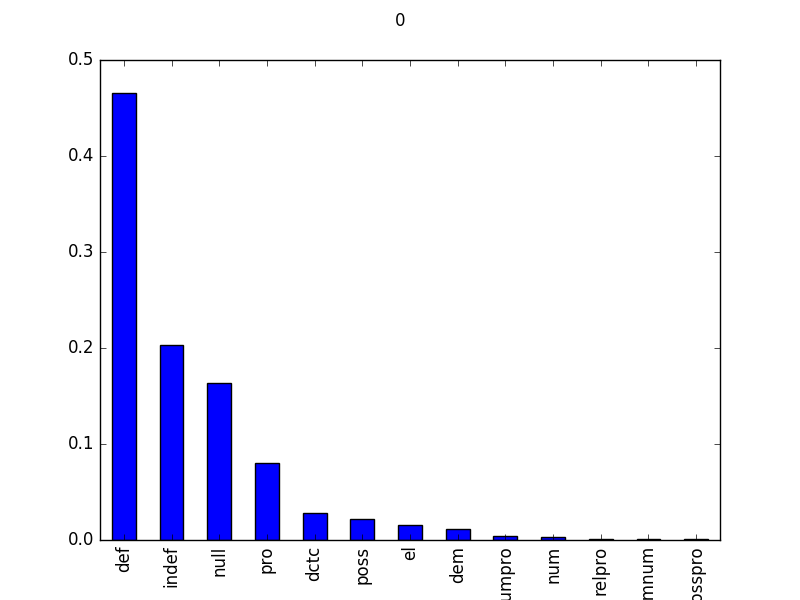
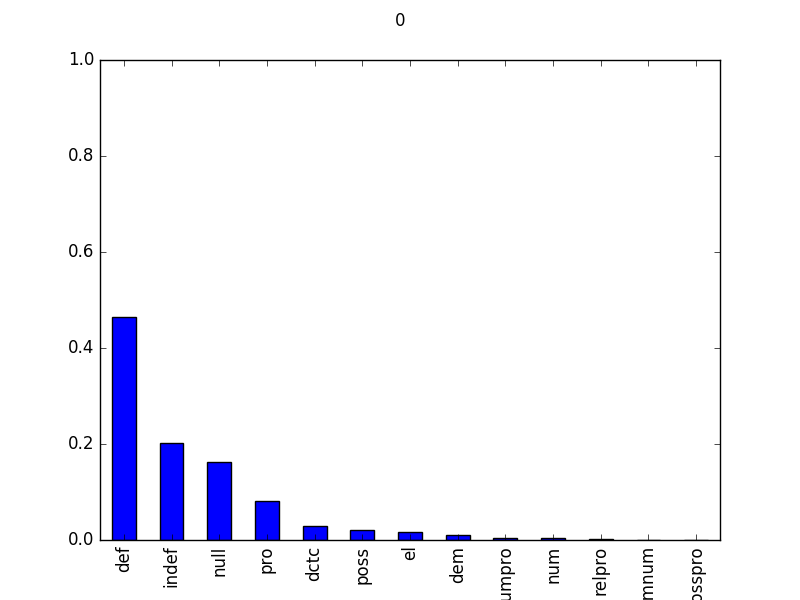
add eda/posteriors.py; add posterior_plots

diff --git a/eda/posteriors.py b/eda/posteriors.py
@@ -4,14 +4,24 @@ import pandas as pd
 import matplotlib.pyplot as plt
 
 
+def plot_posterior(df, column):
+    n = len(df)
+    plot = df[df['label'] == 1].groupby(column).size().divide(n) \
+        .sort_values(ascending=False).plot(kind='bar')
+    plot.set_ylim(0, 1)
+    fig = plot.get_figure()
+    fig.suptitle(column)
+    fig.savefig("posterior_plots/{}.png".format(column))
+
 def plot_posteriors(df):
     def apply_cols(df, func):
         for c in df.columns:
             func(df, c)
 
     def plot_posterior(df, column):
-        plot = df.filter(df['label'] == 1).groupby(column).size().divide(n) \
+        plot = df[df['label'] == 1].groupby(column).size().divide(n) \
             .sort_values(ascending=False).plot(kind='bar')
+        plot.set_ylim(0, 1)
         fig = plot.get_figure()
         fig.suptitle(column)
         fig.savefig("posterior_plots/{}.png".format(column))
@@ -31,8 +41,9 @@ def plot_posteriors_digest(df):
         
         cell.set_title(column)
         cell.get_xaxis().set_visible(False)
+        cell.set_ylim(0, 1)
 
-        df.filter(df['label'] == 1).groupby(column).size().divide(n) \
+        df[df['label'] == 1].groupby([column, 'label']).size().divide(n) \
             .sort_values(ascending=False).plot(ax=cell, kind='bar')
         
     n = len(df)
@@ -46,5 +57,6 @@ def plot_posteriors_digest(df):
 
 if __name__ == '__main__':   
     df = pd.read_csv("data/data.csv")
-    # plot_posteriors(df)
+    plot_posteriors(df)
     plot_posteriors_digest(df)
+    # plot_posterior(df, '16')

diff --git a/eda/priors.py b/eda/priors.py
@@ -12,6 +12,7 @@ def plot_priors(df):
     def plot_prior(df, column):
         plot = df.groupby(column).size().divide(n) \
             .sort_values(ascending=False).plot(kind='bar')
+        plot.set_ylim(0, 1)
         fig = plot.get_figure()
         fig.suptitle(column)
         fig.savefig("prior_plots/{}.png".format(column))
@@ -31,6 +32,7 @@ def plot_priors_digest(df):
         
         cell.set_title(column)
         cell.get_xaxis().set_visible(False)
+        cell.set_ylim(0, 1)
 
         df.groupby(column).size().divide(n) \
             .sort_values(ascending=False).plot(ax=cell, kind='bar')
